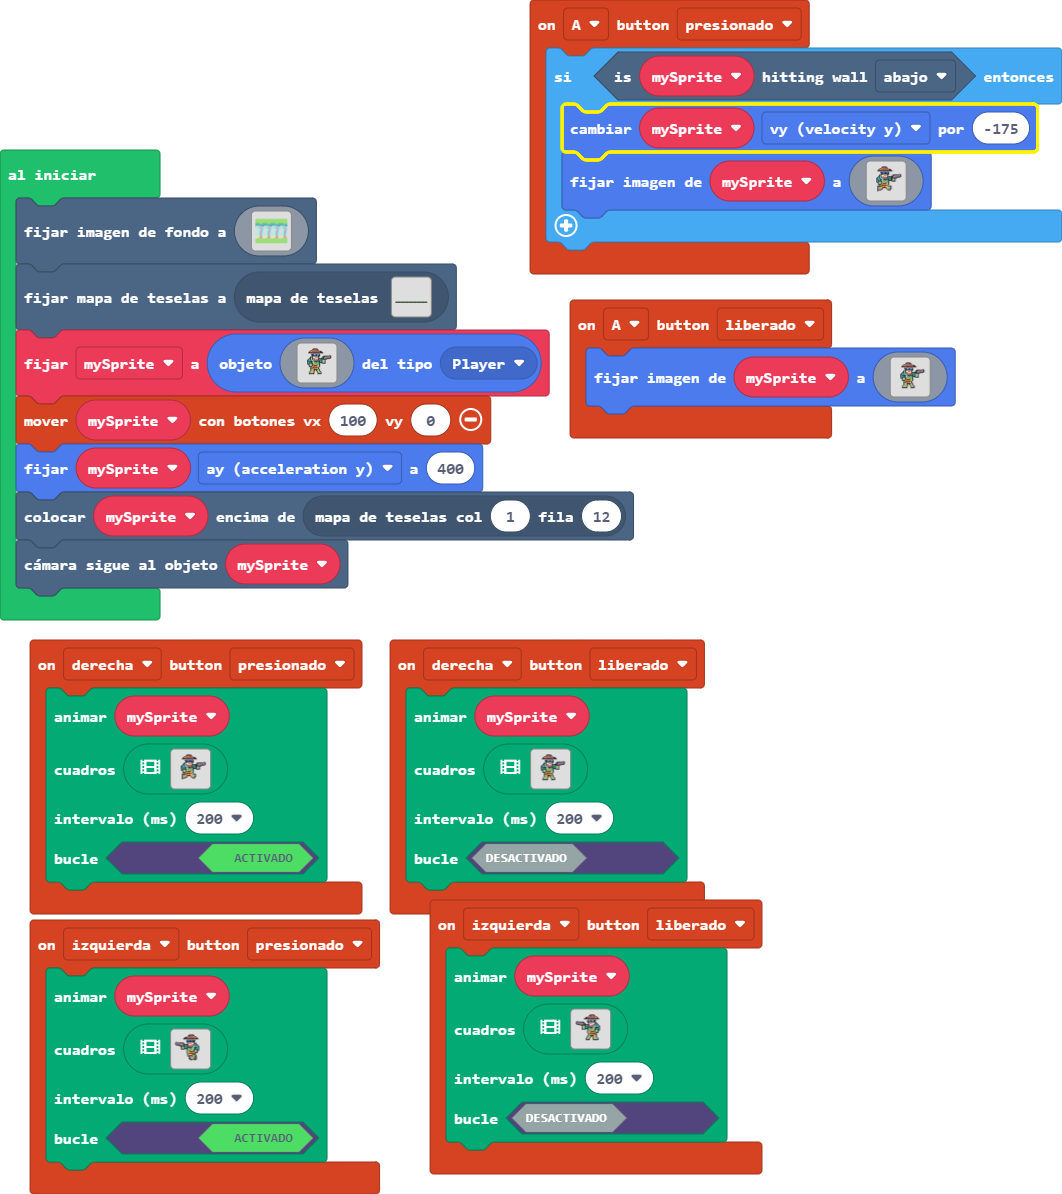
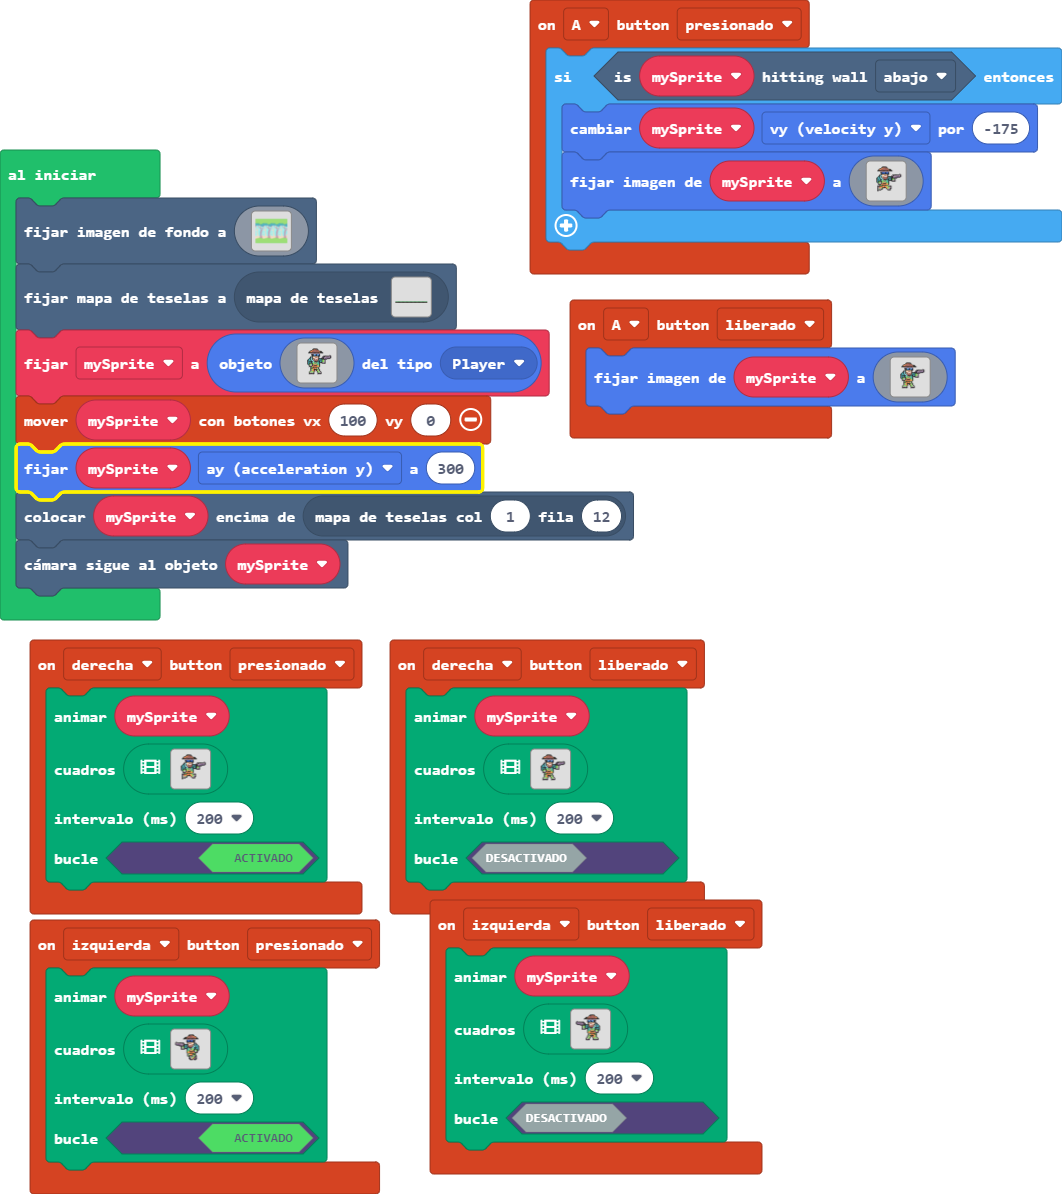
arreglando erroes

Changed region(s): [[0.0, 0.3719, 0.4661, 0.4338], [0.5282, 0.093, 0.9633, 0.1549], [0.5904, 0.062, 0.9633, 0.093]]

diff --git a/main.ts b/main.ts
@@ -126,6 +126,6 @@ scene.setBackgroundImage(assets.image`myImage0`)
 tiles.setCurrentTilemap(tilemap`level`)
 mySprite = sprites.create(assets.image`myImage3`, SpriteKind.Player)
 controller.moveSprite(mySprite, 100, 0)
-mySprite.ay = 400
+mySprite.ay = 300
 tiles.placeOnTile(mySprite, tiles.getTileLocation(1, 12))
 scene.cameraFollowSprite(mySprite)
